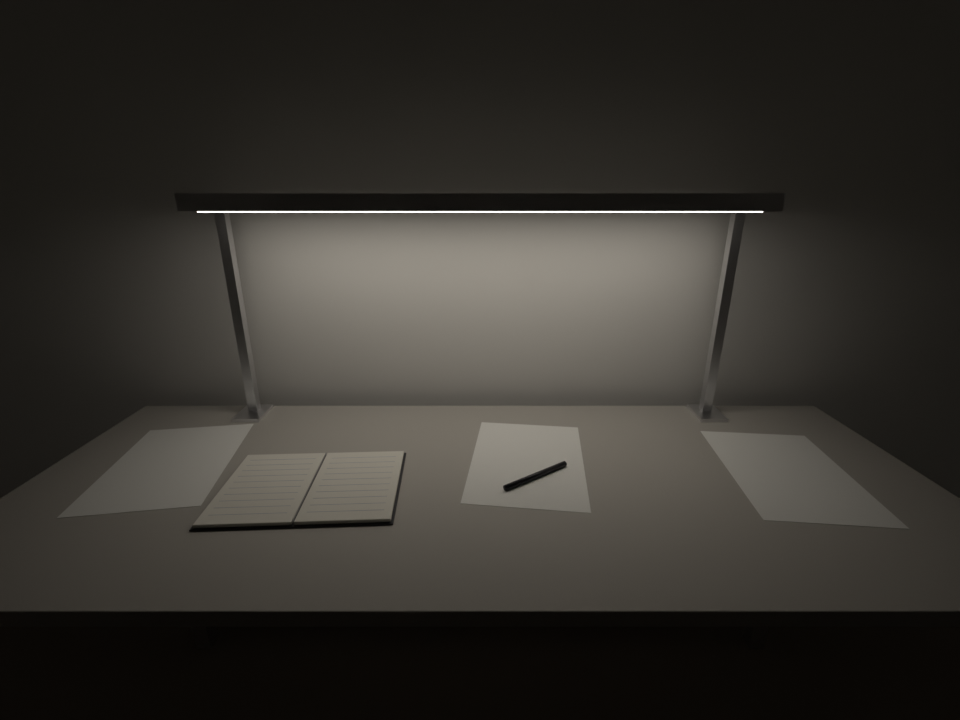
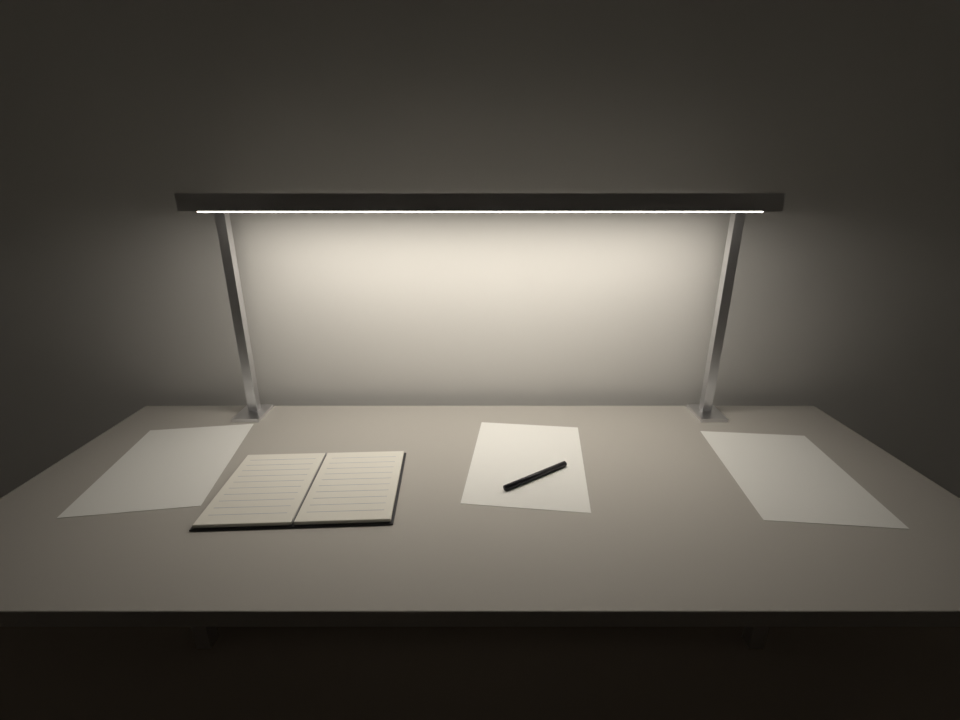
Lamp comparison: narrower shade cone, closer room camera
Claude-Session: https://claude.ai/code/session_017PUStG8iv8pBzw9j4h7WpP

diff --git a/blender/products/005_lamp_direct_indirect.py b/blender/products/005_lamp_direct_indirect.py
@@ -97,7 +97,7 @@ def shade_lamp():
     glow("Bulb", (0.5, 0.5, 0.05), (hx, hy, LAMP_Z + 0.2), 30)
     bpy.ops.object.light_add(type="SPOT", location=(hx, hy, LAMP_Z + 0.4))
     s = bpy.context.object
-    s.data.spot_size = math.radians(80)
+    s.data.spot_size = math.radians(60)
     s.data.spot_blend = 0.25
     s.data.shadow_soft_size = 0.25
     s.data.color = (1.0, 0.93, 0.82)
@@ -140,11 +140,11 @@ if VIEW == "seat":
                           .to_track_quat("-Z", "Y").to_euler())
 else:
     # 방 뒤쪽 모서리에서 선 눈높이로: 천장까지 보이게
-    studio.camera(lens=16)
+    studio.camera(lens=18)
     cam = bpy.context.scene.camera
-    cam.location = (10.5, -33.0, 15.0)
-    cam.rotation_euler = ((studio.Vector((-1.0, DESK_Y, 12.0)) - cam.location)
+    cam.location = (8.0, -21.0, 14.5)
+    cam.rotation_euler = ((studio.Vector((-0.5, DESK_Y, 12.5)) - cam.location)
                           .to_track_quat("-Z", "Y").to_euler())
 
 bpy.context.scene.cycles.max_bounces = 8
-studio.render(f"005_lamp_{VARIANT}_{VIEW}", samples=96, resolution=(960, 720), view="Standard", exposure=float(os.environ.get("EXPO", "0")))
+studio.render(os.path.join(os.environ.get("OUTDIR", ""), f"005_lamp_{VARIANT}_{VIEW}"), samples=96, resolution=(960, 720), view="Standard", exposure=1.5)
